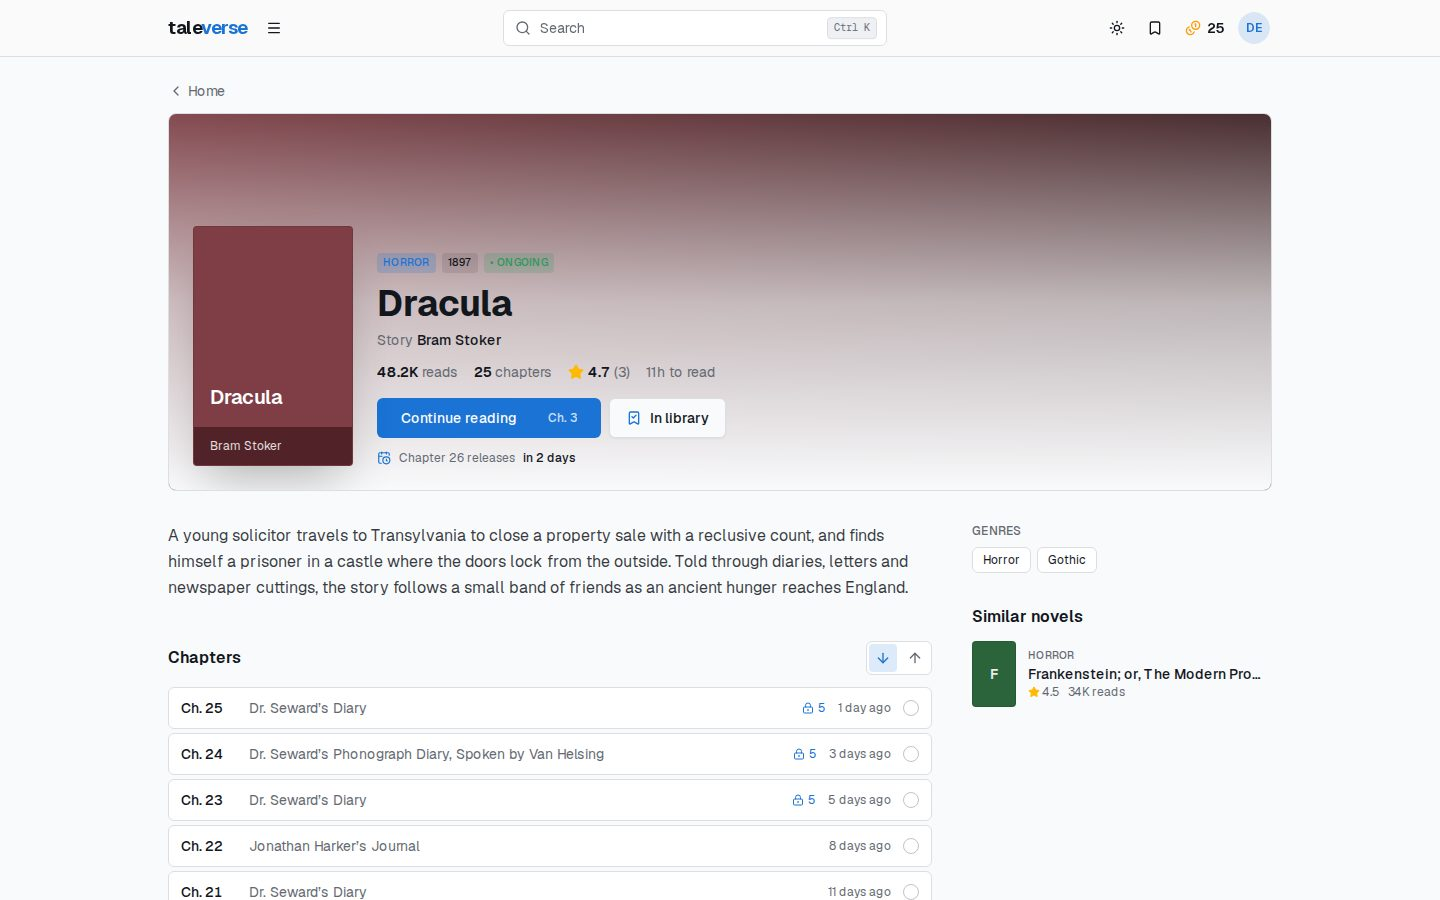
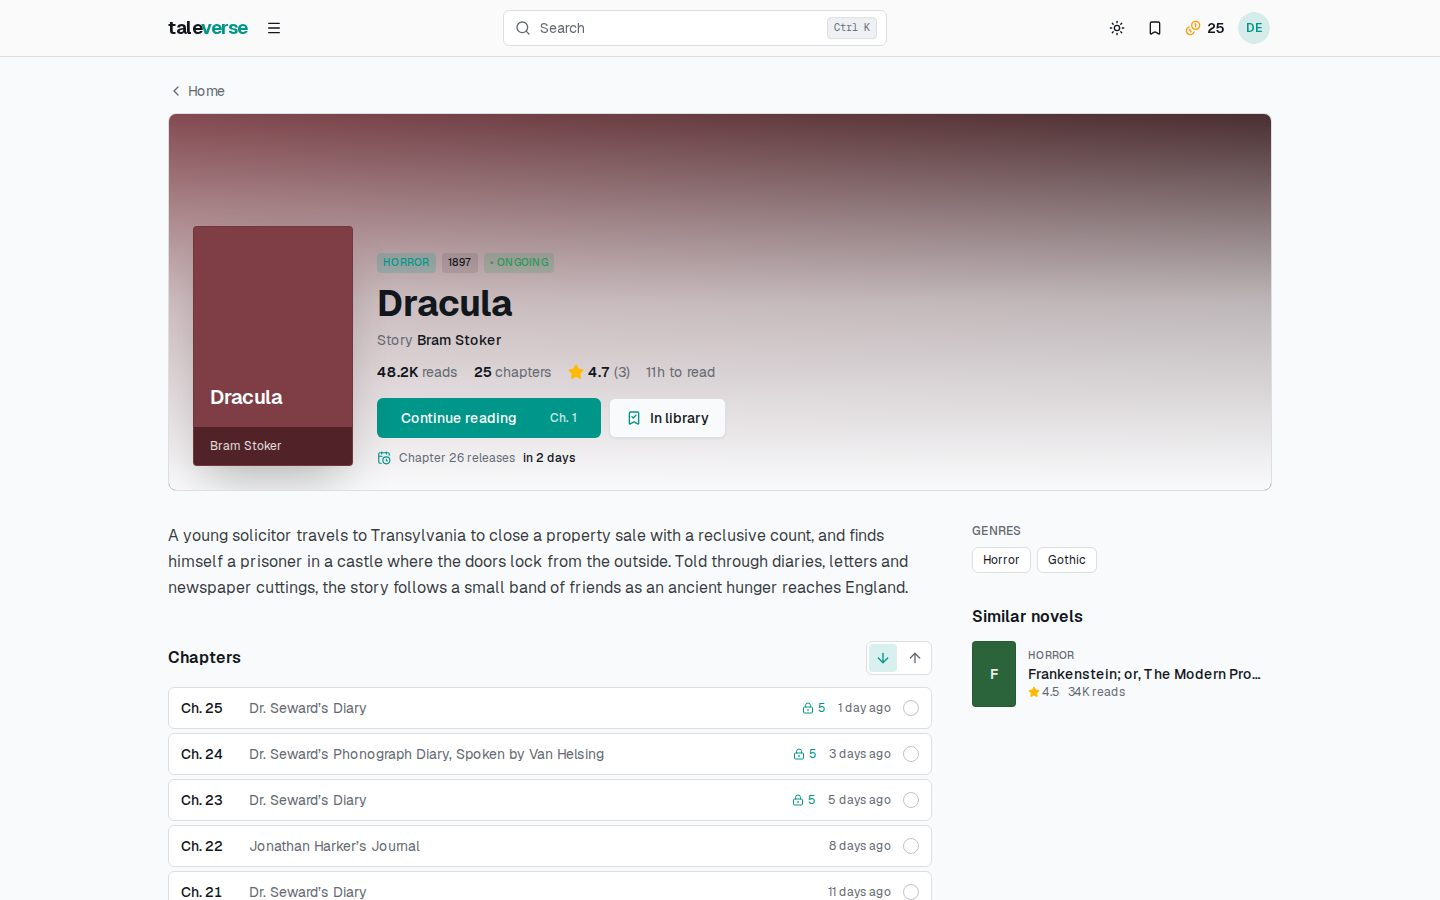
Bring back the teal accent
Keep the original logo's teal instead of chikari's blue; the slate base
and layouts stay.

Changed region(s): [[0.25, 0.4356, 0.4375, 0.4978], [0.25, 0.28, 0.3125, 0.3111]]

diff --git a/src/app/globals.css b/src/app/globals.css
@@ -15,7 +15,7 @@
   --card-foreground: oklch(0.2 0.015 260);
   --popover: oklch(1 0 0);
   --popover-foreground: oklch(0.2 0.015 260);
-  --primary: oklch(0.56 0.17 255);
+  --primary: oklch(0.6 0.118 184.7);
   --primary-foreground: oklch(0.99 0 0);
   --secondary: oklch(0.955 0.005 260);
   --secondary-foreground: oklch(0.25 0.015 260);
@@ -26,7 +26,7 @@
   --destructive: oklch(0.577 0.245 27.3);
   --border: oklch(0.9 0.006 260);
   --input: oklch(0.9 0.006 260);
-  --ring: oklch(0.56 0.17 255);
+  --ring: oklch(0.6 0.118 184.7);
   --success: oklch(0.6 0.13 155);
   --warning: oklch(0.72 0.14 75);
   --reader-bg: var(--background);
@@ -40,7 +40,7 @@
   --card-foreground: oklch(0.93 0.008 260);
   --popover: oklch(0.21 0.014 262);
   --popover-foreground: oklch(0.93 0.008 260);
-  --primary: oklch(0.66 0.15 252);
+  --primary: oklch(0.72 0.13 182);
   --primary-foreground: oklch(0.15 0.02 262);
   --secondary: oklch(0.24 0.014 262);
   --secondary-foreground: oklch(0.93 0.008 260);
@@ -51,7 +51,7 @@
   --destructive: oklch(0.65 0.19 25);
   --border: oklch(0.28 0.014 262);
   --input: oklch(0.3 0.014 262);
-  --ring: oklch(0.66 0.15 252);
+  --ring: oklch(0.72 0.13 182);
   --success: oklch(0.72 0.14 155);
   --warning: oklch(0.8 0.13 80);
 }

diff --git a/src/lib/og.tsx b/src/lib/og.tsx
@@ -33,12 +33,12 @@ export async function ogCard({ eyebrow, title, subtitle, hue, meta }: { eyebrow:
           {subtitle && <div style={{ fontSize: 18, opacity: 0.85 }}>{subtitle}</div>}
         </div>
         <div style={{ display: "flex", flexDirection: "column", justifyContent: "center", flex: 1, gap: 20 }}>
-          <div style={{ fontSize: 26, color: "#6ea8fe" }}>{eyebrow}</div>
+          <div style={{ fontSize: 26, color: "#2dd4bf" }}>{eyebrow}</div>
           <div style={{ fontSize: 68, lineHeight: 1.02, fontFamily: "Geist", letterSpacing: -2 }}>{title}</div>
           {subtitle && <div style={{ fontSize: 32, color: "#9aa3b2" }}>{subtitle}</div>}
           {meta && meta.length > 0 && <div style={{ display: "flex", gap: 28, fontSize: 26, color: "#9aa3b2", marginTop: 12 }}>{meta.map((m) => <div key={m}>{m}</div>)}</div>}
           <div style={{ display: "flex", alignItems: "center", gap: 14, marginTop: 36, fontSize: 30, fontFamily: "Geist" }}>
-            <div style={{ width: 40, height: 40, borderRadius: 10, background: "#3b82f6" }} />
+            <div style={{ width: 40, height: 40, borderRadius: 10, background: "#0d9488" }} />
             Taleverse
           </div>
         </div>

diff --git a/docs/DECISIONS.md b/docs/DECISIONS.md
@@ -32,6 +32,6 @@ Grilled with Vince on 2026-11-14. Where he stopped the grill and said "just do t
 - **Raw SQL for view counts and rating refreshes**, so they don't bump `Novel.updatedAt`, which drives "Recently updated".
 - **Integration tests use `prisma migrate deploy`**, not `migrate reset`: Prisma refuses destructive commands from AI agents. Each test truncates its own tables.
 - **Visual style: a blend (decided by Vince after seeing the rebuild).** The overnight redesign used warm paper with an orange accent. Vince chose to blend it with the original look: the original neutral shadcn greys and the teal of the old "taleverse.1" logo, keeping the new layouts. The paper and sepia reader themes remain as reading options.
-- **Look and reader modelled on chikari.moe (decided by Vince).** After two rounds he said the redesign "feels very AI" and pointed at https://chikari.moe/ as the reference. The site is now a dark-slate, blue-accent, content-first web-novel layout: wordmark header with Ctrl K search, badge covers on shelves, a banner hero on novel pages with read markers on chapter rows, a recent-comments feed, and a sign-up card for guests. The reader follows chikari's floating controls (title pill, chapter picker, settings panel with auto-scroll Off / Creep / Jump, progress indicators and tap behaviour), plus a now-playing pill for auto-scroll and read-aloud (browser speech synthesis). This supersedes the teal/neutral blend.
+- **Look and reader modelled on chikari.moe (decided by Vince).** After two rounds he said the redesign "feels very AI" and pointed at https://chikari.moe/ as the reference. The site is now a dark-slate, content-first web-novel layout: wordmark header with Ctrl K search, badge covers on shelves, a banner hero on novel pages with read markers on chapter rows, a recent-comments feed, and a sign-up card for guests. The reader follows chikari's floating controls (title pill, chapter picker, settings panel with auto-scroll Off / Creep / Jump, progress indicators and tap behaviour), plus a now-playing pill for auto-scroll and read-aloud (browser speech synthesis). Vince then asked to keep the teal accent from the original logo instead of chikari's blue, so: chikari layout and slate base, teal accent.
 - **Fonts: Geist + Geist Mono (decided by Vince).** He didn't like the Fraunces / Literata pairing. Geist covers headings, UI, chapter text and the editor; Geist Mono is used for the small uppercase labels. The reader's typeface setting offers Geist (default) or a system serif (no extra download). Social cards use a bundled static Geist SemiBold.
 - **Per-viewer routes are `force-dynamic`** so a keyless build can't prerender a redirect for `/library`, `/credits` or `/admin`.
